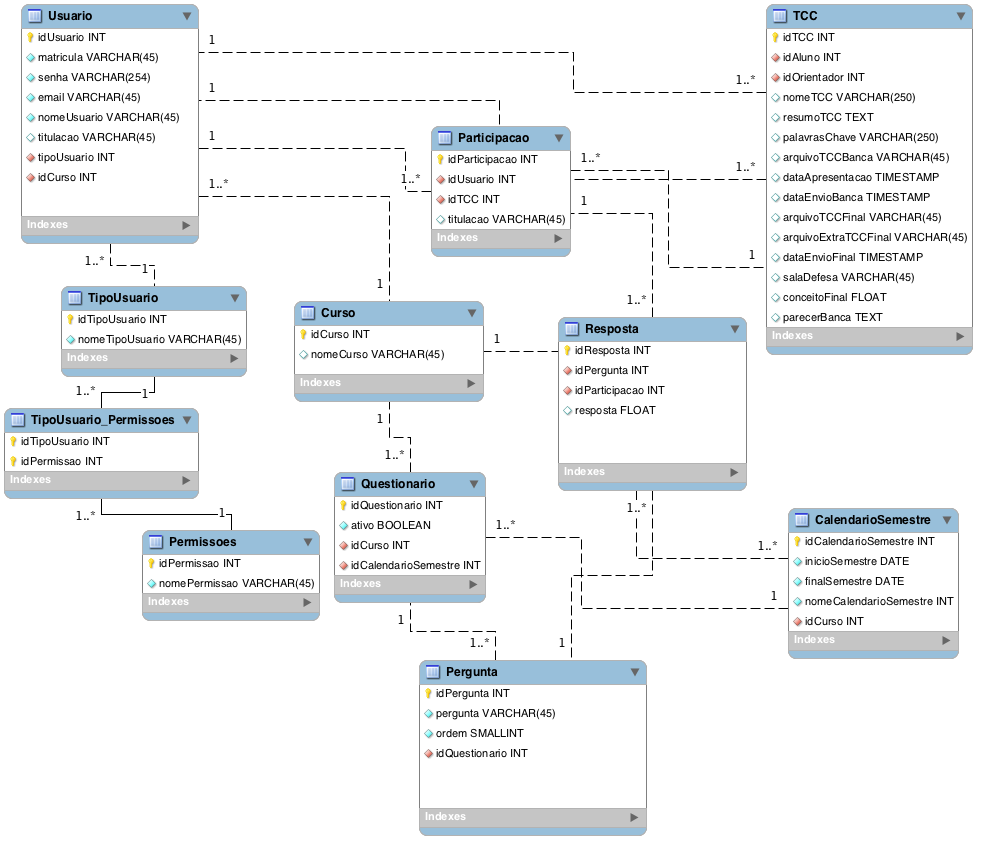
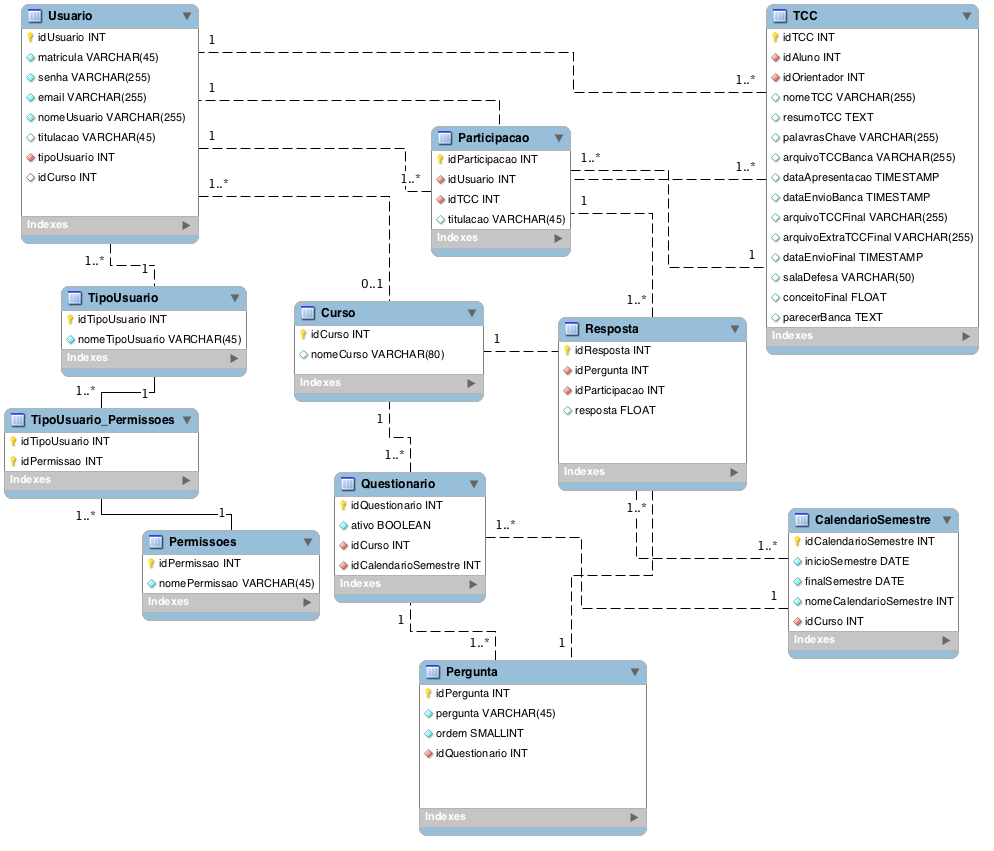
Feito modificações na Lista Pública

diff --git a/src/br/ufjf/tcc/model/TCC.java b/src/br/ufjf/tcc/model/TCC.java
@@ -43,57 +43,65 @@ public class TCC implements Serializable {
 	/**
 	 * Campo com o nome do TCC. Relaciona com a coluna {@code nomeTCC} do banco
 	 * através da anotação
-	 * {@code @Column(name = "nomeTCC", length = 250, nullable = true)}.
+	 * {@code @Column(name = "nomeTCC", length = 255, nullable = true)}.
 	 */
-	@Column(name = "nomeTCC", length = 250, nullable = true)
+	@Column(name = "nomeTCC", length = 255, nullable = true)
 	private String nomeTCC;
 
 	/**
 	 * Campo com o resumo do TCC. Relaciona com a coluna {@code resumoTCC} do
 	 * banco através da anotação
-	 * {@code @Column(name = "resumoTCC", length = 45, nullable = true)}.
+	 * {@code @Column(name = "resumoTCC", nullable = true)}.
 	 */
-	@Column(name = "resumoTCC", length = 45, nullable = true)
+	@Column(name = "resumoTCC", nullable = true)
 	private String resumoTCC;
 	
 	/**
 	 * Campo com as palavras chaves do TCC. Relaciona com a coluna {@code palavrasChave} do
 	 * banco através da anotação
-	 * {@code @Column(name = "palavrasChave", length = 250, nullable = true)}.
+	 * {@code @Column(name = "palavrasChave", length = 255, nullable = true)}.
 	 */
-	@Column(name = "palavrasChave", length = 250, nullable = true)
+	@Column(name = "palavrasChave", length = 255, nullable = true)
 	private String palavrasChave;
 	
 	/**
 	 * Campo com o arquivo do TCC. Relaciona com a coluna
 	 * {@code arquivoTCCBanca} do banco através da anotação
-	 * {@code @Column(name = "arquivoTCCBanca", length = 45, nullable = true)}.
+	 * {@code @Column(name = "arquivoTCCBanca", length = 255, nullable = true)}.
 	 */
-	@Column(name = "arquivoTCCBanca", length = 45, nullable = true)
+	@Column(name = "arquivoTCCBanca", length = 255, nullable = true)
 	private String arquivoTCCBanca;
 
 	/**
 	 * Campo com o arquivo final do TCC. Relaciona com a coluna
 	 * {@code arquivoTCCFinal} do banco através da anotação
-	 * {@code @Column(name = "arquivoTCCFinal", length = 45, nullable = true)}.
+	 * {@code @Column(name = "arquivoTCCFinal", length = 255, nullable = true)}.
 	 */
-	@Column(name = "arquivoTCCFinal", length = 45, nullable = true)
+	@Column(name = "arquivoTCCFinal", length = 255, nullable = true)
 	private String arquivoTCCFinal;
+	
+	/**
+	 * Campo com o arquivo extra final do TCC. Relaciona com a coluna
+	 * {@code arquivoTCCFinal} do banco através da anotação
+	 * {@code @Column(name = "arquivoExtraTCCFinal", length = 255, nullable = true)}.
+	 */
+	@Column(name = "arquivoExtraTCCFinal", length = 255, nullable = true)
+	private String arquivoExtraTCCFinal;
 
 	/**
 	 * Campo com a sala de defesa. Relaciona com a coluna {@code salaDefesa} do
 	 * banco através da anotação
-	 * {@code @Column(name = "salaDefesa", length = 45, nullable = true)}.
+	 * {@code @Column(name = "salaDefesa", length = 50, nullable = true)}.
 	 */
-	@Column(name = "salaDefesa", length = 45, nullable = true)
+	@Column(name = "salaDefesa", length = 50, nullable = true)
 	private String salaDefesa;
 
 	/**
 	 * Campo com o parecer da banca. Relaciona com a coluna {@code parecerBanca}
 	 * do banco através da anotação
-	 * {@code @Column(name = "parecerBanca", length = 45, nullable = true)}.
+	 * {@code @Column(name = "parecerBanca", nullable = true)}.
 	 */
-	@Column(name = "parecerBanca", length = 45, nullable = true)
+	@Column(name = "parecerBanca", nullable = true)
 	private String parecerBanca;
 
 	/**
@@ -192,6 +200,14 @@ public class TCC implements Serializable {
 		this.arquivoTCCFinal = arquivoTCCFinal;
 	}
 
+	public String getArquivoExtraTCCFinal() {
+		return arquivoExtraTCCFinal;
+	}
+
+	public void setArquivoExtraTCCFinal(String arquivoExtraTCCFinal) {
+		this.arquivoExtraTCCFinal = arquivoExtraTCCFinal;
+	}
+	
 	public String getSalaDefesa() {
 		return salaDefesa;
 	}

diff --git a/src/br/ufjf/tcc/controller/ListaPublicaController.java b/src/br/ufjf/tcc/controller/ListaPublicaController.java
@@ -5,6 +5,7 @@ import java.util.ArrayList;
 import java.util.Iterator;
 import java.util.List;
 
+import org.zkoss.bind.annotation.BindingParam;
 import org.zkoss.bind.annotation.Command;
 import org.zkoss.bind.annotation.NotifyChange;
 import org.zkoss.zhtml.Filedownload;
@@ -36,22 +37,35 @@ public class ListaPublicaController extends CommonsController {
 	public void filtra() {
 		List<TCC> temp = new ArrayList<TCC>();
 		String filter = filterString.toLowerCase().trim();
-        for (Iterator<TCC> i = allTccs.iterator(); i.hasNext();) {
-            TCC tmp = i.next();
-            if (tmp.getNomeTCC().toLowerCase().contains(filter) ||
-                tmp.getAluno().getNomeUsuario().toLowerCase().contains(filter) ||
-                tmp.getOrientador().getNomeUsuario().toLowerCase().contains(filter)) {
-            	temp.add(tmp);
-            }
-        }
-        
-        filterTccs = temp;
+		for (Iterator<TCC> i = allTccs.iterator(); i.hasNext();) {
+			TCC tmp = i.next();
+			if (tmp.getNomeTCC().toLowerCase().contains(filter)
+					|| tmp.getAluno().getNomeUsuario().toLowerCase()
+							.contains(filter)
+					|| tmp.getOrientador().getNomeUsuario().toLowerCase()
+							.contains(filter)
+					|| tmp.getPalavrasChave().toLowerCase().contains(filter)
+					|| tmp.getResumoTCC().toLowerCase().contains(filter)) {
+				temp.add(tmp);
+			}
+		}
+
+		filterTccs = temp;
 	}
 
 	@Command
-	public void testeDownload() {
-		InputStream is = Sessions.getCurrent().getWebApp().getResourceAsStream("download.html");
-		Filedownload.save(is, "text/html", "download.html");
+	public void downloadPDF(@BindingParam("tcc") TCC tcc) {
+		InputStream is = Sessions.getCurrent().getWebApp()
+				.getResourceAsStream("files/" + tcc.getArquivoTCCFinal());
+		Filedownload.save(is, "application/pdf", tcc.getNomeTCC() + ".pdf");
+	}
+
+	@Command
+	public void downloadExtra(@BindingParam("tcc") TCC tcc) {
+		InputStream is = Sessions.getCurrent().getWebApp()
+				.getResourceAsStream("files/" + tcc.getArquivoExtraTCCFinal());
+		Filedownload.save(is, "application/x-rar-compressed", tcc.getNomeTCC()
+				+ ".rar");
 	}
 
 }

diff --git a/src/br/ufjf/tcc/model/Usuario.java b/src/br/ufjf/tcc/model/Usuario.java
@@ -51,25 +51,25 @@ public class Usuario implements Serializable {
 	/**
 	 * Campo com a senha do usuario. Relaciona com a coluna {@code senha} do
 	 * banco através da anotação
-	 * {@code @Column(name = "senha", length = 45, nullable = false)}.
+	 * {@code @Column(name = "senha", length = 255, nullable = false)}.
 	 */
-	@Column(name = "senha", length = 45, nullable = false)
+	@Column(name = "senha", length = 255, nullable = false)
 	private String senha;
 
 	/**
 	 * Campo com o email do usuario. Relaciona com a coluna {@code email} do
 	 * banco através da anotação
-	 * {@code @Column(name = "email", length = 45, nullable = false)}.
+	 * {@code @Column(name = "email", length = 255, nullable = false)}.
 	 */
-	@Column(name = "email", length = 45, nullable = false)
+	@Column(name = "email", length = 255, nullable = false)
 	private String email;
 
 	/**
 	 * Campo com o nome do usuario. Relaciona com a coluna {@code nomeUsuario}
 	 * do banco através da anotação
-	 * {@code @Column(name = "nomeUsuario", length = 45, nullable = false)}.
+	 * {@code @Column(name = "nomeUsuario", length = 255, nullable = false)}.
 	 */
-	@Column(name = "nomeUsuario", length = 45, nullable = false)
+	@Column(name = "nomeUsuario", length = 255, nullable = false)
 	private String nomeUsuario;
 
 	/**

diff --git a/src/br/ufjf/tcc/persistent/impl/UsuarioDAO.java b/src/br/ufjf/tcc/persistent/impl/UsuarioDAO.java
@@ -18,17 +18,16 @@ public class UsuarioDAO extends GenericoDAO implements IUsuarioDAO {
 
 	public Usuario retornaUsuario(String matricula, String senha) {
 		try {
-			Query query = getSession().createQuery("select u, c, t from Usuario as u inner join u.curso as c inner join u.tipoUsuario as t where u.matricula = :matricula AND u.senha = :senha");
+			Query query = getSession().createQuery("select u from Usuario as u join fetch u.curso join fetch u.tipoUsuario where u.matricula = :matricula AND u.senha = :senha");
 			query.setParameter("matricula", matricula);
 			query.setParameter("senha", senha);
 			
-			@SuppressWarnings("unchecked")
-			List<Object[]> resultado = query.list();
+			Usuario resultado = (Usuario) query.uniqueResult();
 			
 			getSession().close();
-			
-			if(!resultado.isEmpty()) 
-				return ((Usuario) resultado.get(0)[0]);
+
+			if(resultado != null)
+				return resultado;
 			
 		} catch (Exception e) {
 			e.printStackTrace();

diff --git a/src/br/ufjf/tcc/model/Curso.java b/src/br/ufjf/tcc/model/Curso.java
@@ -35,9 +35,9 @@ public class Curso implements Serializable {
 	/**
 	 * Campo com o nome do curso. Relaciona com a coluna {@code nomeCurso} do
 	 * banco através da anotação
-	 * {@code @Column(name = "nomeCurso", length = 45, nullable = false)}.
+	 * {@code @Column(name = "nomeCurso", length = 80, nullable = false)}.
 	 */
-	@Column(name = "nomeCurso", length = 45, nullable = false)
+	@Column(name = "nomeCurso", length = 80, nullable = false)
 	private String nomeCurso;
 
 	/**
